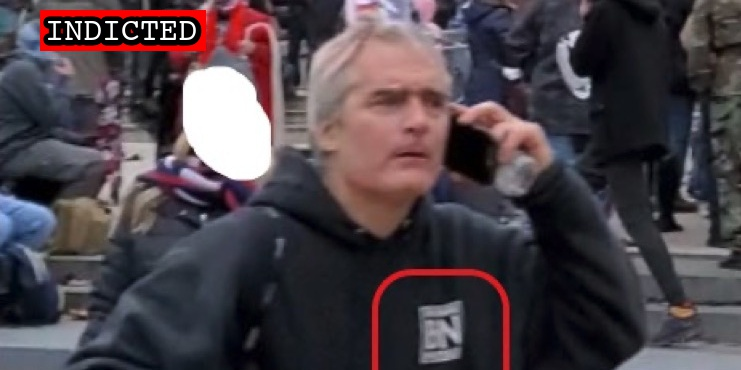
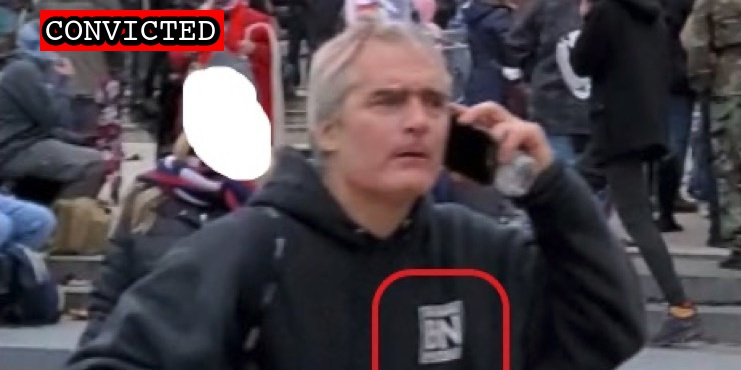
Conviction

Changed region(s): [[0.031, 0.0, 0.3104, 0.1486]]

diff --git a/docs/_suspects/vincent-gillespie.md b/docs/_suspects/vincent-gillespie.md
@@ -4,11 +4,11 @@ lastName: Gillespie
 hashtag: SweaterHead
 aka:
 residence: Massachusetts
-status: Indicted
+status: Convicted
 date: 2022-02-17
 charged: 2022-02-17
 indicted: 2022-02-25
-convicted:
+convicted: 2022-12-23
 acquitted:
 sentenced:
 dismissed:
@@ -32,7 +32,7 @@ raid:
 perpwalk:
 quote:
 title: Vincent Gillespie charged on February 17th, 2022
-description: Click for latest case details. Suspects innocent until proven guilty.
+description: Convicted on December 23, 2022. Click for latest case details.
 author: seditiontrack
 layout: suspect
 published: true
@@ -41,9 +41,43 @@ caseName: USA v. GILLESPIE
 judge: Beryl A. Howell
 videos:
 charges:
+  - code: 18 USC § 111(a)(1)
+    title: Assaulting, resisting, or impeding certain officers or employees
+    url: https://www.law.cornell.edu/uscode/text/18/111
+    felony: true
+  - code: 18 USC § 231(a)(3)
+    title: Obstruction of Law Enforcement During Civil Disorder
+    url: https://www.law.cornell.edu/uscode/text/18/231
+    felony: true
+  - code: 18 USC § 1752(a)(1)
+    title: Entering a restricted building or grounds
+    url: https://www.law.cornell.edu/uscode/text/18/1752
+    felony: false
+  - code: 18 USC § 1752(a)(2)
+    title: Disorderly and disruptive conduct in a restricted building or grounds
+    url: https://www.law.cornell.edu/uscode/text/18/1752
+    felony: false
+  - code: 18 USC § 1752(a)(4)
+    title: Engaging in physitical violence in a restricted building
+    url: https://www.law.cornell.edu/uscode/text/18/1752
+    felony: false
+  - code: 40 USC § 5104(e)(2)(D)
+    title: Disorderly Conduct in a Capitol Building
+    url: https://www.law.cornell.edu/uscode/text/40/5104
+    felony: false
+  - code: 40 USC § 5104(e)(2)(F)
+    title: Act of physical violence on Capitol grounds
+    url: https://www.law.cornell.edu/uscode/text/40/5104
+    felony: false
+  - code: 18 USC § 1512(c)(2),2
+    title: Obstruction of an Official Proceeding (Aiding and Abetting)
+    url: https://www.law.cornell.edu/uscode/text/18/1512
+    felony: true
 sentence:
 ---
+
 - [News Report](https://www.msn.com/en-us/news/crime/man-accused-of-using-police-shield-to-ram-cops-during-capitol-riot-arrested/ar-AAU2N7i)
 - [Complaint](https://www.justice.gov/usao-dc/case-multi-defendant/file/1475401/download)
 - [Statement of Facts](https://www.justice.gov/usao-dc/case-multi-defendant/file/1475406/download)
-- [Indictment](https://www.justice.gov/usao-dc/case-multi-defendant/file/1477141/download)
+- [Indictment](https://storage.courtlistener.com/recap/gov.uscourts.dcd.240571/gov.uscourts.dcd.240571.18.0.pdf)
+- [DOJ Statement (Conviction)](https://www.justice.gov/usao-dc/pr/massachusetts-man-found-guilty-trial-assaulting-law-enforcement-during-january-6-capitol)
